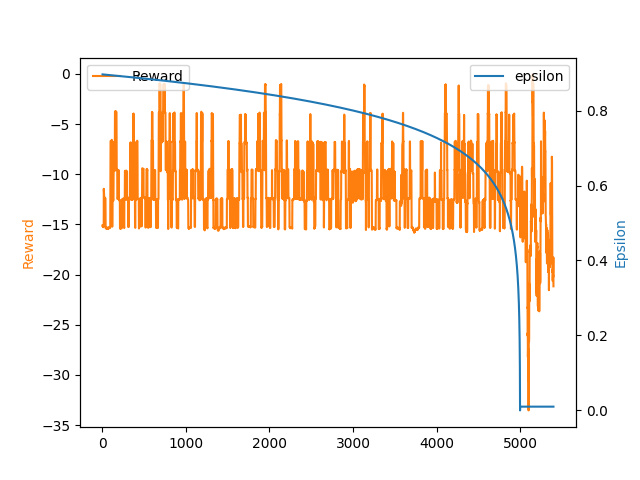
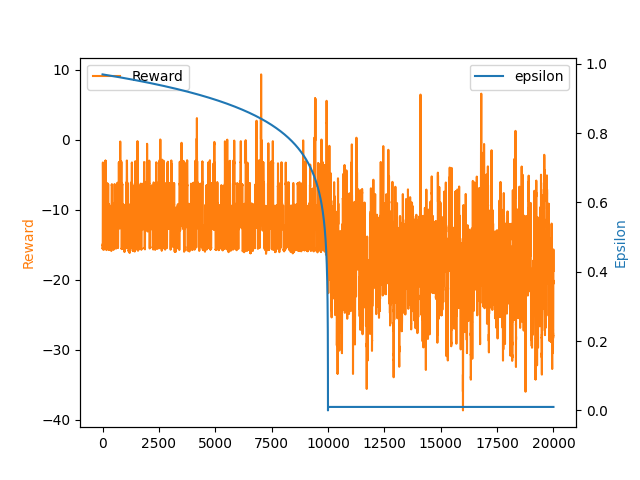
Stage blanks - on reset

diff --git a/sumo_mmrl/environment/env.py b/sumo_mmrl/environment/env.py
@@ -9,7 +9,7 @@ from .outmask import OutMask
 from .find_stop import StopFinder
 from .routemask import RouteMask
 from .stage1 import Stage1
-
+from .stage_reset import StageReset
 
 class Basic:
     """
@@ -25,6 +25,9 @@ class Basic:
         self.out_mask = OutMask()
         self.finder = StopFinder()
         self.route_mask = RouteMask()
+        self.stage_reset = StageReset(self.parser.get_out_dic(),
+                                      self.parser.get_edge_index())
+
         self.edge_position = self.parser.get_edge_pos_dic()
         self.stage_1 = Stage1(self.edge_position)
         self.sumo = None
@@ -133,28 +136,6 @@ class Basic:
         self.old_edge = vedge
         return self.state, self.done, choices
 
-    # def nullstep(self):
-    #     """
-    #     nullstep _summary_
-
-    #     _extended_summary_
-    #     """
-        
-    #     self.sumo.simulationStep()
-    #     # self.steps += 1
-
-    #     vedge = self.vehicle.get_road()
-
-    #     if ":" in vedge or self.old_edge == vedge:
-    #         self.make_choice_flag = False
-    #     else:
-    #         self.make_choice_flag = True
-
-    #     if self.steps >= self.steps_per_episode:
-    #         self.done = True
-
-    #     self.old_edge = vedge
-
     def step(self, action, validator):
         """
         step _summary_
@@ -167,96 +148,25 @@ class Basic:
         Returns:
             _description_
         """
-        # old_dist = self.edge_distance
-        # reward = 0
-        # choices = self.vehicle.get_out_dict()
         
         (self.state,
          reward,
          self.done,
          choices) = self.stage_1.step(action,
-                                            validator,
-                                            self.vehicle,
-                                            self.person,
-                                            self.sumo)
+                                      validator,
+                                      self.vehicle,
+                                      self.person,
+                                      self.sumo)
+         
         self.agent_step = self.stage_1.agent_step
+        
         self.steps = int(self.sumo.simulation.getTime())
 
-        # if validator != -1:
-        #     if self.make_choice_flag:
-        #         self.vehicle.set_destination(action)
-        #         reward += -0.1
-        #         self.accumulated_reward += reward
-        #         self.agent_step += 1
-        #         self.make_choice_flag = False
+        if self.steps >= self.steps_per_episode:
+            reward += -45
+            self.done = True
 
-        #     self.sumo.simulationStep()
-        #     self.steps += 1
-        #     vedge = self.vehicle.get_road()
-
-        #     choices = self.vehicle.get_out_dict()
-        #     (
-        #         vedge_loc,
-        #         dest_edge_loc,
-        #         outmask,
-        #         self.edge_distance,
-        #     ) = self.out_mask.get_outmask(
-        #         vedge, self.destination_edge, choices, self.edge_position
-        #     )
-
-        #     if old_dist > self.edge_distance:
-        #         new_dist_check = 1
-        #     else:
-        #         new_dist_check = -1
-
-        #     vedge = self.vehicle.get_road()
-
-        #     self.done = False
-
-        #     if new_dist_check == 1:
-        #         reward += 0.1
-
-        #     if vedge == self.destination_edge:
-        #         self.done = True
-
-        #         # self.vehicle.pickup()
-        #         # print(self.sumo_con.busstopCheck())
-        #         # print("Pickup ", self.p_index)
-        #         reward += 45
-        #         # self.vehicle.set_destination(self.sumo_con.busstopCheck()[0])
-
-        #         self.accumulated_reward += reward
-        #     if self.steps >= self.steps_per_episode:
-        #         self.done = True
-        #         reward += -10
-        #     self.accumulated_reward += reward
-
-        #     lineroute = self.finder.get_line_route(self.sumo)
-        #     routemask = self.route_mask.get_route_mask(
-        #         vedge, choices, self.route_flag, lineroute
-        #     )
-        #     print(self.sumo.simulation.getTime())
-
-        #     self.state = []
-        #     self.state.extend(vedge_loc)
-        #     self.state.extend(dest_edge_loc)
-        #     self.state.append(self.sumo.simulation.getTime())
-        #     self.state.append(new_dist_check)
-        #     self.state.extend(outmask)
-        #     self.state.append(self.route_flag)
-        #     self.state.extend(routemask)
-
-        #     self.old_edge = vedge
-        #     while not self.make_choice_flag and not self.done:
-        #         self.nullstep()
-        #     return self.state, reward, self.done, choices
-        # else:
-        #     self.done = True
-        #     reward += -15
         self.accumulated_reward += reward
-        self.steps = int(self.sumo.simulation.getTime())
-        #     self.make_choice_flag = False
-
         return self.state, reward, self.done, choices
 
     def render(self, mode):

diff --git a/sumo_mmrl/environment/stage_reset.py b/sumo_mmrl/environment/stage_reset.py
@@ -1,0 +1,103 @@
+"""
+     _summary_
+
+    _extended_summary_
+
+    Returns:
+        _type_: _description_
+    """
+from .outmask import OutMask
+from .find_stop import StopFinder
+from .routemask import RouteMask
+from .vehicle import Vehicle
+from .person import Person
+
+
+class StageReset:
+    """
+     _summary_
+
+    _extended_summary_
+    """
+
+    def __init__(self, out_dict, index_dict):
+        # # self.out_mask = OutMask()
+        # # self.finder = StopFinder()
+        # # self.route_mask = RouteMask()
+        # # self.make_choice_flag = False
+        # # self.done = False
+        # # self.old_edge = None
+        # self.agent_step = 0
+        # # self.edge_position_dic = edge_position_dic
+        # # self.route_flag = 0
+        # # self.state = []
+        self.out_dict = out_dict
+        self.index_dict = index_dict
+        
+        self.steps = 0
+        self.agent_step = 0
+        self.accumulated_reward = 0
+        self.done = False
+        self.make_choice_flag = True
+        self.vehicle = None
+        self.person = None
+        self.sumo = None
+    
+    def step(self, vehicle, person, sumo):
+        """
+        step _summary_
+
+        _extended_summary_
+
+        Keyword Arguments:
+            action -- _description_ (default: {None})
+
+        Returns:
+            _description_
+        """
+        self.sumo = sumo
+        self.person = person
+        self.vehicle = vehicle
+
+        self.vehicle.random_relocate()
+        self.sumo.simulationStep()
+        vedge = self.vehicle.get_road()
+        pedge = self.person.get_road()
+        choices = self.vehicle.get_out_dict()
+        (
+            vedge_loc,
+            dest_edge_loc,
+            outmask,
+            self.edge_distance,
+        ) = self.out_mask.get_outmask(
+            vedge, pedge, choices, self.edge_position
+        )
+
+        new_dist_check = 1
+       
+        self.state = []
+        self.state.extend(vedge_loc)
+        self.state.extend(dest_edge_loc)
+        self.state.append(self.sumo.simulation.getTime())
+        self.state.append(new_dist_check)
+        self.state.extend(outmask)
+        self.old_edge = vedge
+        return self.state, self.done, choices
+
+
+    def manhat_dist(self, x1, y1, x2, y2):
+        """
+        manhat_dist _summary_
+
+        _extended_summary_
+
+        Args:
+            x1 (_type_): _description_
+            y1 (_type_): _description_
+            x2 (_type_): _description_
+            y2 (_type_): _description_
+
+        Returns:
+            _type_: _description_
+        """
+        return abs(x1 - x2) + abs(y1 - y2)

diff --git a/test.py b/test.py
@@ -2,7 +2,7 @@
 from sumo_mmrl import Basic, Agent
 
 # import time
-EPISODES = 5_000
+EPISODES = 20_000
 STEPS = 1000
 BATCH_SIZE = 64
 MIN_MEMORY = 1000
